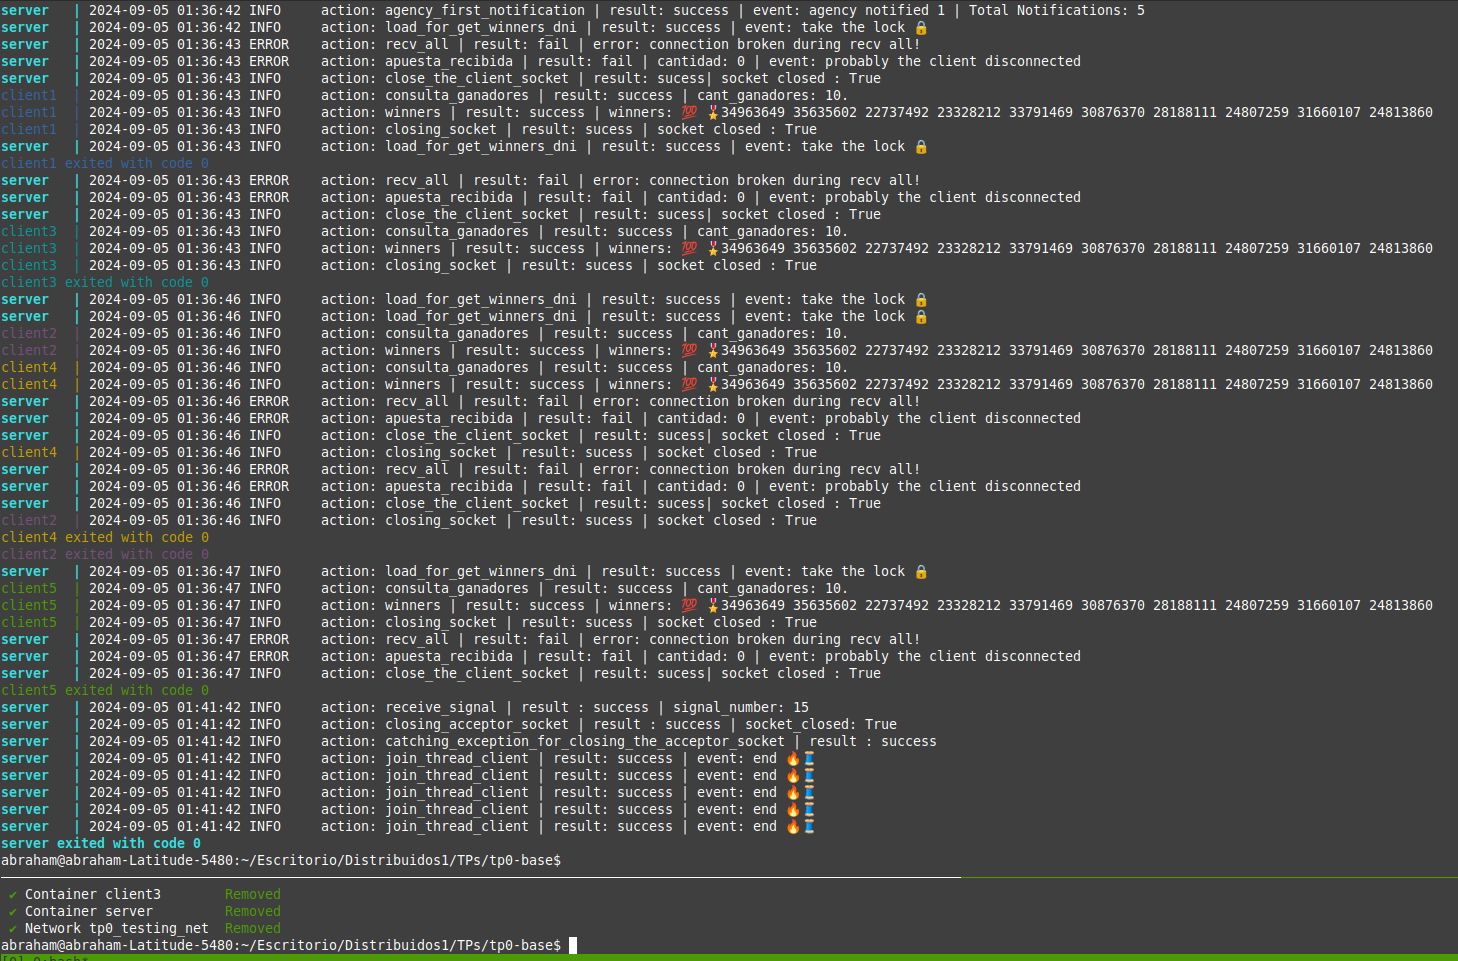
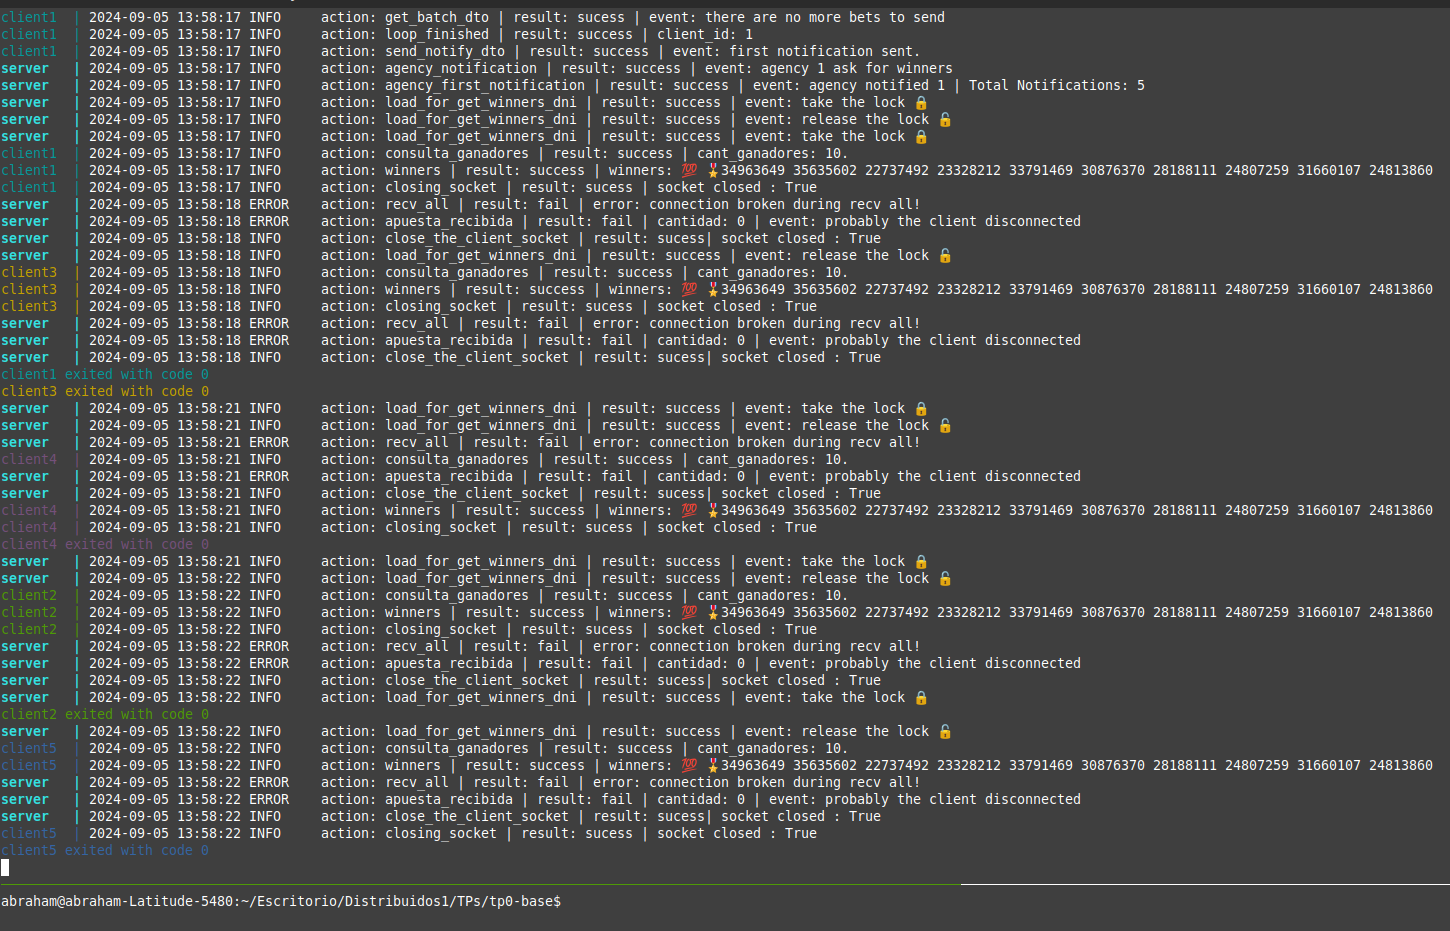
udpate readme ej8, a little refactor in server with some logs

Changed region(s): [[0.0, 0.0, 1.0, 1.0]]

diff --git a/server/common/protectedStorage.py b/server/common/protectedStorage.py
@@ -16,5 +16,5 @@ class ProtectedStorage:
         with self.lock:
             logging.info("action: load_for_get_winners_dni | result: success | event: take the lock 🔒")
             winners = get_winners_dni()
-            return winners
             logging.info("action: load_for_get_winners_dni | result: success | event: release the lock 🔓")
+            return winners

diff --git a/server/common/server.py b/server/common/server.py
@@ -46,4 +46,4 @@ class Server:
                 logging.info(f"action: another_signal_closed_the_acceptor_socket | result : success | socket_closed: {self.socket_acceptor.is_closed()} ")
             return None
         return socket_peer
-
+    

diff --git a/server/common/clientThread.py b/server/common/clientThread.py
@@ -71,4 +71,3 @@ class ClientThread:
         self.thread.join()
         logging.info("action: join_thread_client | result: success | event: end 🔥🧵")
 
-

diff --git a/README.md b/README.md
@@ -8,8 +8,20 @@ En este ejercicio es importante considerar los mecanismos de sincronización a u
 En caso de que el alumno implemente el servidor Python utilizando _multithreading_,  deberán tenerse en cuenta las [limitaciones propias del lenguaje](https://wiki.python.org/moin/GlobalInterpreterLock).
 
 ### Solucion : 
+1. En primer lugar se modelo la clase ClientThread que representa la conexion del cliente en el servidor tiene en su estado:
+    1. El socket_peer respectivo (lo q nos retorna el accept)
+    2. ProtectedStorage: para poder leer o cargar bets usando metodos thread-safe. 
+    3. ProtectedNotificationCounter: Para contar las veces que se recibe un NotificationDTO de tipo FIRST_NOTIFICATION de manera thread/safe o obtener su valor del contador.
+2. Por cada cliente que se conecte en el servidor vamos a crear un ClientThread para que se ejecute de forma paralela.
+3. El ClientThread tiene su instancia de Protocol e interactua con el cliente recibiendo los BatchDTO y retornando Acks, etc.  
+3. Del lado cliente (client.py) ahora solo se conecta una vez y ya no se "desconecta para dejar que otro se conecte" porque ahora la aplicacion es multithreading, puede ser atendido el cliente sin cortes.  (Si recibe una SIGTERM, se sigue desconectando y liberando recursos)
 
 ### Mecanismos de sincronizacion utilizado: 
+1. Se implemento 2 monitores: 
+1. ProtectedStorage: Usando el lock (herramienta de sincronizacion) se protege los metodos **store_batch_dto** (este metodo encapsula el metodo **store_bets**) 
+y **get_winners_dni** (encapsula el metodo **load_bets**) para que los multiples thread accedan de a 1 al recurso compartido de manera segura sin race condition (bug de concurrencia).
+1. ProtectedNotificationCounter: Tambien se usa el Lock, basicamente es un contador protegido de las veces que se recibio un NotificationDTO de tipo FIRST_NOTIFICATION
+(porque un cliente termino de enviar todos los BatchDTO o termino su la cantidad de loops).
 
 
 ### Ejemplo: 
@@ -18,7 +30,9 @@ En caso de que el alumno implemente el servidor Python utilizando _multithreadin
     make docker-compose-up
     make docker-compose-logs
 ``` 
+Con un amount= 500 y un maxAmount 95 se obtuvo los sgts ganadores:
 
+<img src= "./img/ej8_part1.png">
 
 2. Garantizando la liberacion de recursos podemos ejecutar en medio de la ejecucion: 
 
@@ -30,4 +44,9 @@ En caso de que el alumno implemente el servidor Python utilizando _multithreadin
     docker kill --signal=SIGTERM client4
     docker kill --signal=SIGTERM client5
 ``` 
-Observamos que se cierran el socket del cliente y el archivo csv, del lado del server se cierra el socket aceptador(listener).
+1. Observamos que al mandar las signals los client cierran su archivo csv y su socket de manera correcta.
+2. En el lado del server al cerrar el socketAceptador vamos a cerrar los sockets peer de cada client thread y luego joineamos el thread que lanzamos en cada
+instancia de ClientThread. Liberamos todos los recursos de manera exitosa.
+
+<img src= "./img/ej8_part2.png">
+
